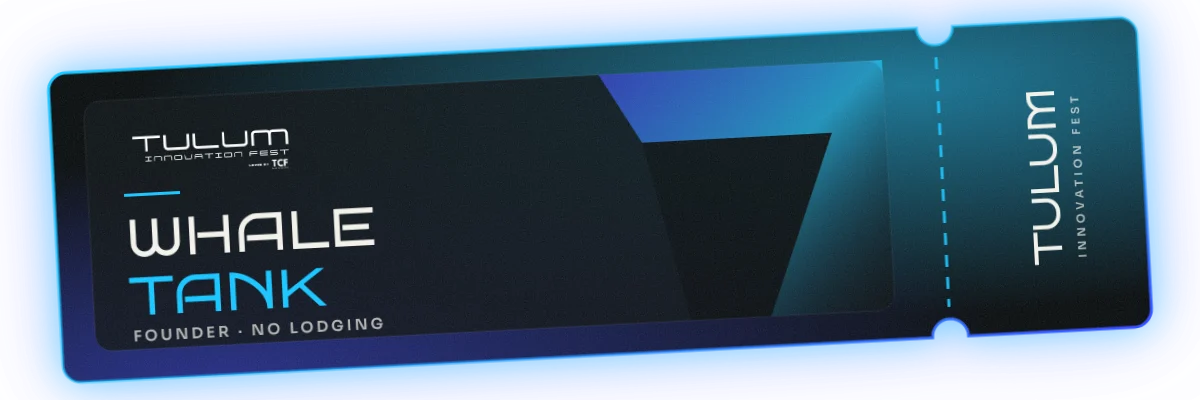
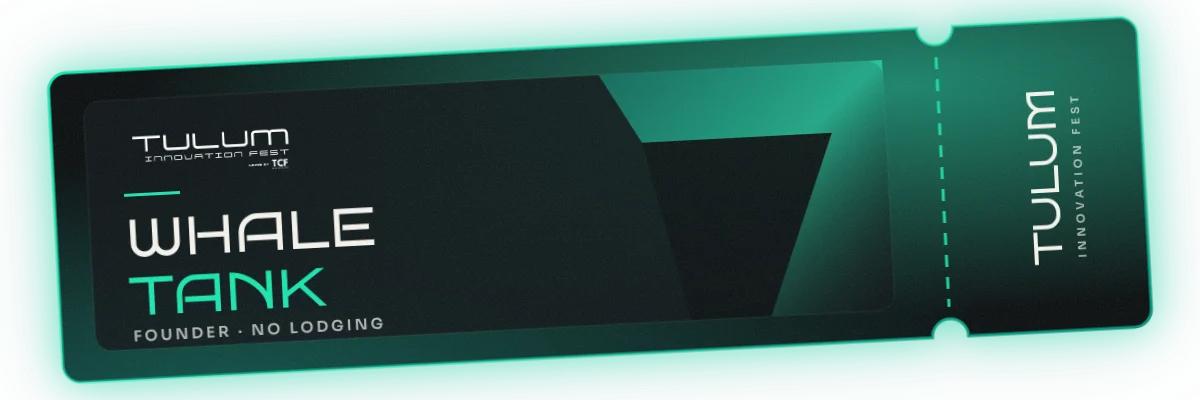
Whale Tank tickets: a distinct color for each pass
Founder cyan, team member violet, founder no-stay teal, team member no-stay orange,
reservation gold, voluntary contribution rose. New art for all six; /tickets and checkout use them.

Claude-Session: https://claude.ai/code/session_01Qi8kMQmVG36e5PKBR8Hyx4

diff --git a/tickets/index.html b/tickets/index.html
@@ -24,7 +24,7 @@
   <link rel="preconnect" href="https://fonts.gstatic.com" crossorigin />
   <link href="https://fonts.googleapis.com/css2?family=Bruno+Ace&family=Sora:wght@300;400;500;600;700&display=swap" rel="stylesheet" />
   <link rel="preload" as="image" href="/assets/tickets/general-access.webp" type="image/webp" />
-  <link rel="stylesheet" href="/tickets/styles.css?v=20261024-usd" />
+  <link rel="stylesheet" href="/tickets/styles.css?v=20261027-wt" />
   <script type="application/ld+json">{"@context":"https://schema.org","@type":"Event","name":"Tulum Innovation Fest 2026","startDate":"2026-12-09","endDate":"2026-12-12","eventStatus":"https://schema.org/EventScheduled","eventAttendanceMode":"https://schema.org/OfflineEventAttendanceMode","description":"A four-day gathering connecting innovation, capital, culture and human connection in Tulum, Mexico.","url":"https://www.tuluminnovationfest.com/tickets","image":"https://www.tuluminnovationfest.com/assets/tickets/general-access.webp","offers":[{"@type":"Offer","name":"General Access — 4 Day Pass","price":"218.00","priceCurrency":"USD","availability":"https://schema.org/InStock","url":"https://www.tuluminnovationfest.com/checkout?pass=general-access"},{"@type":"Offer","name":"Executive Pass — Festival Access","price":"1500.00","priceCurrency":"USD","availability":"https://schema.org/InStock","url":"https://www.tuluminnovationfest.com/checkout?pass=executive-pass"},{"@type":"Offer","name":"Hotel Upgrade — 4 nights","price":"1500.00","priceCurrency":"USD","availability":"https://schema.org/InStock","url":"https://www.tuluminnovationfest.com/checkout?pass=hotel-upgrade"},{"@type":"Offer","name":"Hotel Upgrade — second guest","price":"720.00","priceCurrency":"USD","availability":"https://schema.org/InStock","url":"https://www.tuluminnovationfest.com/checkout?pass=hotel-second-guest"},{"@type":"Offer","name":"Community Access — Tulum Resident","price":"109.00","priceCurrency":"USD","availability":"https://schema.org/InStock","url":"https://www.tuluminnovationfest.com/checkout?pass=community-access"}]}</script>
 </head>
 <body class="tk-page">
@@ -135,7 +135,7 @@
                   <a class="tk-tile-more" href="#whale-tank"><span data-tif-en>Details</span><span data-tif-es>Ver detalles</span> ↓</a>
                 </div>
               </article>
-              <article class="tk-tile" style="--pass:#1FC6FF">
+              <article class="tk-tile" style="--pass:#A07BFF">
                 <a class="tk-tile-art" href="#whale-tank" aria-hidden="true" tabindex="-1"><img src="/assets/tickets/whale-tank-team-member-sm.webp" width="720" height="240" alt="" loading="lazy" decoding="async"></a>
                 <div class="tk-tile-body">
                   <h3><span data-tif-en>Team member</span><span data-tif-es>Miembro del equipo</span></h3>
@@ -144,7 +144,7 @@
                   <a class="tk-tile-more" href="#whale-tank"><span data-tif-en>Details</span><span data-tif-es>Ver detalles</span> ↓</a>
                 </div>
               </article>
-              <article class="tk-tile" style="--pass:#1FC6FF">
+              <article class="tk-tile" style="--pass:#22E3B0">
                 <a class="tk-tile-art" href="#whale-tank" aria-hidden="true" tabindex="-1"><img src="/assets/tickets/whale-tank-founder-no-stay-sm.webp" width="720" height="240" alt="" loading="lazy" decoding="async"></a>
                 <div class="tk-tile-body">
                   <h3>Founder</h3>
@@ -153,7 +153,7 @@
                   <a class="tk-tile-more" href="#whale-tank"><span data-tif-en>Details</span><span data-tif-es>Ver detalles</span> ↓</a>
                 </div>
               </article>
-              <article class="tk-tile" style="--pass:#1FC6FF">
+              <article class="tk-tile" style="--pass:#FF9A3D">
                 <a class="tk-tile-art" href="#whale-tank" aria-hidden="true" tabindex="-1"><img src="/assets/tickets/whale-tank-team-member-no-stay-sm.webp" width="720" height="240" alt="" loading="lazy" decoding="async"></a>
                 <div class="tk-tile-body">
                   <h3><span data-tif-en>Team member</span><span data-tif-es>Miembro del equipo</span></h3>
@@ -335,28 +335,28 @@
           <p><span data-tif-en>For founders and teams selected for <a href="/whale-tank">Whale Tank</a>. The full experience includes stay, transfers, festival access and the program; the no-stay options include everything except accommodation.</span><span data-tif-es>Para founders y equipos seleccionados en <a href="/whale-tank">Whale Tank</a>. La experiencia completa incluye hospedaje, traslados, acceso al festival y el programa; las opciones sin estadía incluyen todo menos el hospedaje.</span></p>
         </div>
         <div class="tk-more-grid">
-          <article class="tk-hotel-card">
+          <article class="tk-hotel-card" style="--pass:#1FC6FF">
             <p class="tk-label"><span>01</span><span data-tif-en>With stay</span><span data-tif-es>Con estadía</span></p>
             <h3>Founder Full Experience</h3>
             <p class="tk-hotel-dates"><span data-tif-en>Principal participant · 1 per startup</span><span data-tif-es>Participante principal · 1 por startup</span></p>
             <div class="tk-price"><small>USD</small><strong>$2,500</strong><span data-tif-en>charged in MXN</span><span data-tif-es>se cobra en MXN</span></div>
             <a class="tk-cta" href="/checkout?pass=whale-tank-founder" data-ticket="whale-tank-founder"><span data-tif-en>Get Founder pass</span><span data-tif-es>Comprar pase Founder</span><i aria-hidden="true">↗</i></a>
           </article>
-          <article class="tk-hotel-card">
+          <article class="tk-hotel-card" style="--pass:#A07BFF">
             <p class="tk-label"><span>02</span><span data-tif-en>With stay</span><span data-tif-es>Con estadía</span></p>
             <h3><span data-tif-en>Team member</span><span data-tif-es>Miembro del equipo</span></h3>
             <p class="tk-hotel-dates"><span data-tif-en>Additional team member</span><span data-tif-es>Miembro adicional del equipo</span></p>
             <div class="tk-price"><small>USD</small><strong>$1,000</strong><span data-tif-en>charged in MXN</span><span data-tif-es>se cobra en MXN</span></div>
             <a class="tk-cta is-ghost" href="/checkout?pass=whale-tank-team-member" data-ticket="whale-tank-team-member"><span data-tif-en>Add team member</span><span data-tif-es>Agregar miembro</span><i aria-hidden="true">↗</i></a>
           </article>
-          <article class="tk-hotel-card">
+          <article class="tk-hotel-card" style="--pass:#22E3B0">
             <p class="tk-label"><span>03</span><span data-tif-en>Without stay</span><span data-tif-es>Sin estadía</span></p>
             <h3><span data-tif-en>Founder without stay</span><span data-tif-es>Founder sin estadía</span></h3>
             <p class="tk-hotel-dates"><span data-tif-en>Principal participant · no accommodation</span><span data-tif-es>Participante principal · sin hospedaje</span></p>
             <div class="tk-price"><small>USD</small><strong>$1,500</strong><span data-tif-en>charged in MXN</span><span data-tif-es>se cobra en MXN</span></div>
             <a class="tk-cta" href="/checkout?pass=whale-tank-founder-no-stay" data-ticket="whale-tank-founder-no-stay"><span data-tif-en>Get Founder pass</span><span data-tif-es>Comprar pase Founder</span><i aria-hidden="true">↗</i></a>
           </article>
-          <article class="tk-hotel-card">
+          <article class="tk-hotel-card" style="--pass:#FF9A3D">
             <p class="tk-label"><span>04</span><span data-tif-en>Without stay</span><span data-tif-es>Sin estadía</span></p>
             <h3><span data-tif-en>Team member without stay</span><span data-tif-es>Miembro sin estadía</span></h3>
             <p class="tk-hotel-dates"><span data-tif-en>Additional team member · no accommodation</span><span data-tif-es>Miembro adicional · sin hospedaje</span></p>
